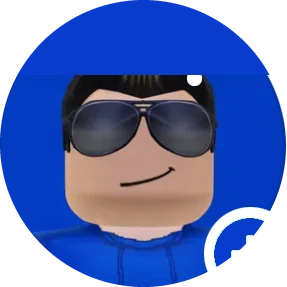
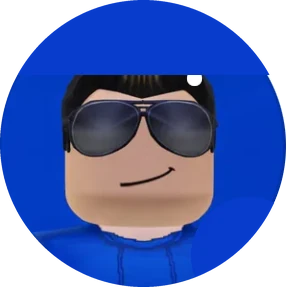
TikTok: someone else's profile, real-looking verified badge, upload and play videos
Claude-Session: https://claude.ai/code/session_019XkTPpmcsHWjk58MruyJfw

Changed region(s): [[0.669, 0.6969, 0.9756, 0.9477], [0.8362, 0.8084, 0.892, 0.8641], [0.7805, 0.8641, 0.8362, 0.892]]

diff --git a/tiktok/index.html b/tiktok/index.html
@@ -114,26 +114,84 @@ img{display:block;max-width:none}
 .add{margin-top:10px;width:100%}
 .hint{font-size:12px;color:#8a8a8f;margin:8px 0 0;line-height:1.35}
 input[type=file]{display:none}
+/* other person's profile */
+.app .ot{display:none}.app.o .me{display:none}.app.o .ot{display:block}
+.app.o .stats.ot,.app.o .btnsO.ot,.app.o .tabsO.ot,.app.o .lists.ot{display:flex}
+.app.o .nav{display:none}.app.o .scroll{padding-bottom:calc(40*var(--u) + env(safe-area-inset-bottom,0px))}
+.top.o{display:none}.app.o .top.o{display:flex}.app.o .top.m{display:none}
+.headO{position:relative;padding:calc(30*var(--u)) calc(34*var(--u)) 0;min-height:calc(210*var(--u))}
+.headO h1{margin:0;max-width:calc(620*var(--u));font-size:calc(70*var(--u));line-height:1.08;font-weight:800;letter-spacing:-.025em;word-break:break-word}
+.hrow{display:flex;align-items:center;gap:calc(10*var(--u));margin-top:calc(14*var(--u));font-size:calc(29*var(--u));color:var(--mute);font-weight:500;flex-wrap:wrap}
+.hrow .vb2{width:calc(34*var(--u));height:calc(34*var(--u));flex:none}
+.hrow .cat{margin-left:calc(14*var(--u));font-weight:600}
+.avO{position:absolute;right:calc(34*var(--u));top:calc(30*var(--u));width:calc(200*var(--u));height:calc(200*var(--u));border-radius:50%;background:#fff;border:calc(6*var(--u)) solid #e9f6fb;box-shadow:0 0 0 calc(2*var(--u)) #d9eef6;overflow:hidden}
+.avO img{width:100%;height:100%;object-fit:cover}
+.btnsO{display:flex;gap:calc(17*var(--u));padding:calc(32*var(--u)) calc(34*var(--u)) 0}
+.btnsO button{height:calc(82*var(--u));border-radius:calc(16*var(--u));font-size:calc(31*var(--u));font-weight:600;display:grid;place-items:center}
+.btnsO .fol{flex:1;background:#fe2c55;color:#fff}
+.btnsO .fol.on{background:#f1f1f2;color:#161616}
+.btnsO .msg{flex:1;background:#f1f1f2;color:#161616}
+.btnsO .addf{width:calc(83*var(--u));flex:none;border-radius:50%;background:#f1f1f2}
+.btnsO .addf img{height:calc(34*var(--u));mix-blend-mode:multiply}
+.supp{margin:calc(30*var(--u)) calc(34*var(--u)) 0;display:inline-flex;align-items:center;gap:calc(14*var(--u));height:calc(64*var(--u));padding:0 calc(26*var(--u)) 0 calc(16*var(--u));border:calc(2*var(--u)) solid var(--line);border-radius:calc(32*var(--u));font-size:calc(29*var(--u));font-weight:600;max-width:calc(100% - 68*var(--u))}
+.supp img{height:calc(28*var(--u));width:auto}
+.supp span{overflow:hidden;text-overflow:ellipsis;white-space:nowrap}
+.app.o .tabs{margin-top:calc(46*var(--u))}
+.tabsO{display:flex;position:relative;margin-top:calc(40*var(--u));height:calc(100*var(--u));border-bottom:0}
+.tabsO button{flex:1;display:grid;place-items:center;height:100%}
+.tabsO img{height:calc(46*var(--u));opacity:.55}.tabsO button.on img{opacity:1}
+.tabsO .ind{position:absolute;bottom:0;height:calc(5*var(--u));background:#161616;border-radius:calc(2*var(--u));transition:left .25s,width .25s}
+.lists{display:flex;overflow-x:auto;border-top:calc(2*var(--u)) solid var(--line);border-bottom:calc(2*var(--u)) solid var(--line);height:calc(90*var(--u));align-items:center;scrollbar-width:none}
+.lists::-webkit-scrollbar{display:none}
+.lists span{flex:none;display:flex;align-items:center;gap:calc(14*var(--u));padding:0 calc(34*var(--u)) 0 calc(34*var(--u));font-size:calc(29*var(--u));font-weight:600;white-space:nowrap;position:relative}
+.lists span+span:before{content:"";position:absolute;left:0;top:calc(22*var(--u));bottom:calc(22*var(--u));width:calc(2*var(--u));background:var(--line)}
+.lists img{height:calc(34*var(--u))}
+.cell{cursor:pointer}
+.cell .vtag{position:absolute;top:calc(12*var(--u));right:calc(12*var(--u));width:calc(40*var(--u));height:calc(40*var(--u));border-radius:50%;background:#00000066;display:grid;place-items:center}
+.cell .vtag svg{width:calc(20*var(--u));height:calc(20*var(--u))}
+/* video viewer */
+.vw{position:fixed;inset:0;z-index:90;background:#000;display:none}
+.vw.on{display:block}
+.vw video{position:absolute;inset:0;width:100%;height:100%;object-fit:contain;background:#000}
+.vw .x,.vw .mu{position:absolute;top:calc(14px + env(safe-area-inset-top,0px));width:40px;height:40px;border-radius:50%;background:#00000066;color:#fff;display:grid;place-items:center}
+.vw .x{left:14px}.vw .mu{right:14px}
+.vw .cap{position:absolute;left:16px;right:16px;bottom:calc(26px + env(safe-area-inset-bottom,0px));color:#fff;font-size:15px;line-height:1.35;text-shadow:0 1px 4px #0009}
+.vw .cap b{display:block;font-size:16px;margin-bottom:4px}
+.vw .pp{position:absolute;inset:0;display:grid;place-items:center;pointer-events:none;opacity:0;transition:opacity .2s}
+.vw .pp.on{opacity:1}
+.seg{display:flex;background:#ececef;border-radius:10px;padding:3px;gap:3px}
+.seg button{flex:1;height:34px;border-radius:8px;font-size:14px;font-weight:600;color:#6a6a70}
+.seg button.on{background:#fff;color:#161616;box-shadow:0 1px 3px #0002}
+.li .tg{display:inline-block;font-size:11.5px;font-weight:700;color:#0a8a3a;background:#e1f6e8;border-radius:6px;padding:2px 7px;margin-left:4px}
+.li .lb{font-size:11.5px;color:#8a8a8f;font-weight:600;margin-bottom:-4px}
+
 </style>
 </head>
 <body>
 <div class="app" id="app">
-  <header class="top">
+  <header class="top o"><button class="ib" id="backBtn" aria-label="Back"><img src="img/o_back.webp" alt=""></button><span class="sp"></span><div class="r"><img src="img/o_bell.webp" alt=""><button class="ib" id="shareBtn" aria-label="Share"><img src="img/o_share.webp" alt=""></button></div></header><header class="top m">
     <button class="ib" id="editBtn" aria-label="Edit profile"><img src="img/i_pencil.webp" alt=""></button>
     <span class="coin" id="coin"><img src="img/i_coin.webp" alt=""></span>
     <span class="sp"></span>
     <div class="r"><img src="img/i_cal.webp" alt=""><img src="img/i_adduser.webp" alt=""><button class="ib" id="menuBtn" aria-label="Menu"><img src="img/i_menu.webp" alt=""></button></div>
   </header>
   <main class="scroll" id="scroll">
-    <section class="head">
-      <div class="who"><h1 id="name"></h1><svg class="vb" id="vb" viewBox="0 0 24 24"><circle cx="12" cy="12" r="11" fill="#20d5ec"/><path d="M7 12.4l3.2 3L17 8.8" stroke="#fff" stroke-width="2.4" fill="none" stroke-linecap="round" stroke-linejoin="round"/></svg><i class="caret"></i><i class="dot" id="dot"></i><p id="handle"></p></div>
-      <div class="avwrap"><div class="bubble" id="note"></div><div class="av" id="av"><img id="avImg" alt=""><b class="plus">+</b></div></div>
+    <section class="headO ot"><div><h1 class="b-name"></h1><div class="hrow"><span class="b-handle"></span><svg class="vb2 b-vb" viewBox="0 0 24 24"><path d="M12 1.6l2.3 1.6 2.8-.2 1.2 2.6 2.5 1.2-.2 2.8L22 12l-1.6 2.3.2 2.8-2.6 1.2-1.2 2.5-2.8-.2L12 22l-2.3-1.6-2.8.2-1.2-2.6-2.5-1.2.2-2.8L2 12l1.6-2.3-.2-2.8 2.6-1.2 1.2-2.5 2.8.2z" fill="#20d5ec"/><path d="M7.6 12.3l3 3 5.8-6.2" stroke="#fff" stroke-width="2.3" fill="none" stroke-linecap="round" stroke-linejoin="round"/></svg><span class="cat" id="cat"></span></div></div><div class="avO"><img class="b-av" alt=""></div></section>
+    <section class="stats ot"><div><b class="b-fg"></b><span>Following</span></div><div><b class="b-fr"></b><span>Followers</span></div><div><b class="b-lk"></b><span>Likes</span></div></section>
+    <section class="btnsO ot"><button class="fol" id="folBtn" type="button">Follow</button><button class="msg" type="button">Message</button><button class="addf" type="button" aria-label="Suggested accounts"><img src="img/o_addf.webp" alt=""></button></section>
+    <section class="bio ot"><span class="b-bio"></span><a class="b-link"></a></section>
+    <section class="ot" id="suppW"><div class="supp"><img src="img/o_heart.webp" alt=""><span id="suppT"></span></div></section>
+    <section class="tabsO ot" id="tabsO"><button data-t="a"><img src="img/o_music.webp" alt=""></button><button class="on" data-t="g"><img src="img/i_t1.webp" alt=""></button><button data-t="e"><img src="img/i_t3.webp" alt=""></button><button data-t="r"><img src="img/i_t6.webp" alt=""></button><i class="ind" id="indO"></i></section>
+    <section class="lists ot" id="lists"></section>
+    <section class="head me">
+      <div class="who"><h1 id="name" class="b-name"></h1><svg class="vb" id="vb" viewBox="0 0 24 24"><path d="M12 1.6l2.3 1.6 2.8-.2 1.2 2.6 2.5 1.2-.2 2.8L22 12l-1.6 2.3.2 2.8-2.6 1.2-1.2 2.5-2.8-.2L12 22l-2.3-1.6-2.8.2-1.2-2.6-2.5-1.2.2-2.8L2 12l1.6-2.3-.2-2.8 2.6-1.2 1.2-2.5 2.8.2z" fill="#20d5ec"/><path d="M7.6 12.3l3 3 5.8-6.2" stroke="#fff" stroke-width="2.3" fill="none" stroke-linecap="round" stroke-linejoin="round"/></svg><i class="caret"></i><i class="dot" id="dot"></i><p id="handle" class="b-handle2"></p></div>
+      <div class="avwrap"><div class="bubble" id="note"></div><div class="av" id="av"><img id="avImg" class="b-av" alt=""><b class="plus">+</b></div></div>
     </section>
-    <section class="stats"><div><b id="sFg"></b><span>Following</span></div><div><b id="sFr"></b><span>Followers</span></div><div><b id="sLk"></b><span>Likes</span></div></section>
-    <section class="bio"><span id="bio"></span><a id="link"></a></section>
-    <section class="chips"><span class="chip"><img src="img/i_chip1.webp" alt="">TikTok Studio</span><span class="chip"><img src="img/i_chip2.webp" alt="">Your orders</span><span class="chip"><img src="img/i_chip3.webp" alt="">Balance</span><span class="chip"><img src="img/i_chip4.webp" alt="">Showcase</span></section>
-    <section class="hls" id="hls"></section>
-    <section class="tabs" id="tabs"><button class="on" data-t="0"><img src="img/i_t1.webp" alt=""></button><button data-t="1"><img src="img/i_t2.webp" alt=""></button><button data-t="2"><img src="img/i_t3.webp" alt=""></button><button data-t="3"><img src="img/i_t4.webp" alt=""></button><button data-t="4"><img src="img/i_t5.webp" alt=""></button><button data-t="5"><img src="img/i_t6.webp" alt=""></button><button data-t="6"><img src="img/i_t7.webp" alt=""></button><button data-t="7"><img src="img/i_t8.webp" alt=""></button><i class="ind" id="ind"></i></section>
+    <section class="stats me"><div><b id="sFg" class="b-fg"></b><span>Following</span></div><div><b id="sFr" class="b-fr"></b><span>Followers</span></div><div><b id="sLk" class="b-lk"></b><span>Likes</span></div></section>
+    <section class="bio me"><span id="bio" class="b-bio"></span><a id="link" class="b-link"></a></section>
+    <section class="chips me"><span class="chip"><img src="img/i_chip1.webp" alt="">TikTok Studio</span><span class="chip"><img src="img/i_chip2.webp" alt="">Your orders</span><span class="chip"><img src="img/i_chip3.webp" alt="">Balance</span><span class="chip"><img src="img/i_chip4.webp" alt="">Showcase</span></section>
+    <section class="hls me" id="hls"></section>
+    <section class="tabs me" id="tabs"><button class="on" data-t="0"><img src="img/i_t1.webp" alt=""></button><button data-t="1"><img src="img/i_t2.webp" alt=""></button><button data-t="2"><img src="img/i_t3.webp" alt=""></button><button data-t="3"><img src="img/i_t4.webp" alt=""></button><button data-t="4"><img src="img/i_t5.webp" alt=""></button><button data-t="5"><img src="img/i_t6.webp" alt=""></button><button data-t="6"><img src="img/i_t7.webp" alt=""></button><button data-t="7"><img src="img/i_t8.webp" alt=""></button><i class="ind" id="ind"></i></section>
     <section id="grid" class="grid"></section>
     <p class="empty" id="empty" hidden>Nothing here yet.</p>
   </main>
@@ -142,6 +200,11 @@ input[type=file]{display:none}
 
 <aside class="ed" id="ed" aria-hidden="true"><div class="ed-in">
   <div class="ed-bar"><button class="rst" id="reset" type="button">Reset</button><h2>Edit profile</h2><button class="done" id="done" type="button">Done</button></div>
+  <div class="card"><h3>Profile type</h3><div class="seg" id="eMode"><button type="button" data-m="me">My profile</button><button type="button" data-m="o">Someone else’s</button></div>
+    <div id="eOther"><div class="fld" style="margin-top:12px"><label for="eCat">Label next to the username (empty to hide)</label><input type="text" id="eCat" maxlength="24" autocomplete="off"></div>
+    <div class="fld"><label for="eSupp">“Supporting” chip (empty to hide)</label><input type="text" id="eSupp" maxlength="60" autocomplete="off"></div>
+    <label class="tog">Following this account<input type="checkbox" id="eFol"></label>
+    <div class="fld" style="margin-top:6px"><label>Playlists</label><div class="list" id="eLists"></div><button class="btn g add" id="addList" type="button">Add playlist</button></div></div></div>
   <div class="card"><h3>Profile</h3>
     <div class="fld"><label>Photo</label><div class="pic"><img class="pv" id="pvAv" alt=""><div class="ac"><label class="btn" for="fAv">Change photo</label><button class="btn g" id="rmAv" type="button">Default</button></div><input type="file" id="fAv" accept="image/*"></div></div>
     <div class="fld"><label for="eName">Name</label><input type="text" id="eName" maxlength="40" autocomplete="off"></div>
@@ -169,16 +232,17 @@ input[type=file]{display:none}
     <p class="hint">Tap a picture to replace it. Views show with the play icon; a label covers the video like “Community Guidelines violation”.</p>
   </div>
 </div></aside>
-<input type="file" id="fAny" accept="image/*">
+<input type="file" id="fAny" accept="image/*"><input type="file" id="fVid" accept="video/*">
+<div class="vw" id="vw"><video id="vp" playsinline loop></video><button class="x" id="vx" aria-label="Close"><svg viewBox="0 0 14 14" width="16" height="16"><path d="M1.5 1.5l11 11M12.5 1.5l-11 11" stroke="#fff" stroke-width="1.8" stroke-linecap="round"/></svg></button><button class="mu" id="vm" aria-label="Sound"></button><div class="pp" id="vpp"><svg viewBox="0 0 24 24" width="72" height="72"><path d="M7 4.5v15l13-7.5z" fill="#ffffffcc"/></svg></div><div class="cap" id="vcap"></div></div>
 
 <script>
 (function(){
 var KEY='tt.profile.v1';
-var DEF={name:'pocoyo roblox',handle:'pocoyorobloxiano',ver:false,dot:true,coin:true,avBg:'#1d44c8',avatar:null,note:"What's good?",
+var DEF={mode:'me',cat:'',supp:'',followed:false,lists:[{name:'Playlist 1'},{name:'Playlist 2'}],name:'pocoyo roblox',handle:'pocoyorobloxiano',ver:false,dot:true,coin:true,avBg:'#1d44c8',avatar:null,note:"What's good?",
  following:'73',followers:'347300',likes:'672900',bio:'Ponte serio crack',link:'https://moneyscripts.shop/',inbox:'99+',
  hls:[{name:'Important',img:'hl'}],
  drafts:{on:true,n:'7',size:'208.7MB',img:'v1'},
- vids:[{img:'v2',views:'36.9K',label:''},{img:'v3',views:'',label:'Community Guidelines violation'},{img:'v4',views:'991K',label:''},{img:'v5',views:'133.5K',label:''},{img:'v6',views:'314.7K',label:''}]};
+ vids:[{img:'v2',views:'36.9K',label:'',vid:null},{img:'v3',views:'',label:'Community Guidelines violation',vid:null},{img:'v4',views:'991K',label:'',vid:null},{img:'v5',views:'133.5K',label:'',vid:null},{img:'v6',views:'314.7K',label:'',vid:null}]};
 var S;
 function clone(o){return JSON.parse(JSON.stringify(o))}
 function load(){try{var r=JSON.parse(localStorage.getItem(KEY)||'null');S=r?Object.assign(clone(DEF),r):clone(DEF)}catch(e){S=clone(DEF)}}
@@ -191,27 +255,42 @@ function fmt(v){v=String(v==null?'':v).trim();if(!/^\d+(\.\d+)?$/.test(v))return
 function esc(t){return String(t).replace(/[&<>"]/g,function(c){return{'&':'&amp;','<':'&lt;','>':'&gt;','"':'&quot;'}[c]})}
 var PLAY='<svg viewBox="0 0 24 24"><path d="M6 3.8v16.4a1 1 0 0 0 1.5.9l13-8.2a1 1 0 0 0 0-1.7l-13-8.2A1 1 0 0 0 6 3.8z" fill="none" stroke="#fff" stroke-width="2.2" stroke-linejoin="round"/></svg>';
 var STACK='<svg viewBox="0 0 24 24"><rect x="3" y="9" width="18" height="12" rx="2.4" fill="none" stroke="#fff" stroke-width="2"/><path d="M6.5 5h11" stroke="#fff" stroke-width="2" stroke-linecap="round"/></svg>';
+function qa(sel,fn){var n=document.querySelectorAll(sel);for(var i=0;i<n.length;i++)fn(n[i])}
 function render(){
- $('name').textContent=S.name;$('vb').style.display=S.ver?'inline-block':'none';$('dot').style.display=S.dot?'':'none';$('coin').style.display=S.coin?'':'none';
- $('handle').textContent='@'+String(S.handle).replace(/^@/,'');
- $('sFg').textContent=fmt(S.following);$('sFr').textContent=fmt(S.followers);$('sLk').textContent=fmt(S.likes);
- $('bio').textContent=S.bio;var l=$('link');l.textContent=S.link;l.href=/^https?:/i.test(S.link)?S.link:'#';l.style.display=S.link?'':'none';
- $('bio').parentNode.style.display=(S.bio||S.link)?'':'none';
+ $('app').classList.toggle('o',S.mode==='o');
+ qa('.b-name',function(e){e.textContent=S.name});
+ qa('.b-handle,.b-handle2',function(e){e.textContent='@'+String(S.handle).replace(/^@/,'')});
+ qa('.b-fg',function(e){e.textContent=fmt(S.following)});qa('.b-fr',function(e){e.textContent=fmt(S.followers)});qa('.b-lk',function(e){e.textContent=fmt(S.likes)});
+ qa('.b-bio',function(e){e.textContent=S.bio});
+ qa('.b-link',function(e){e.textContent=S.link;e.href=/^https?:/i.test(S.link)?S.link:'#';e.style.display=S.link?'':'none'});
+ qa('.bio',function(e){e.style.display=(S.bio||S.link)?'':'none'});
+ qa('.b-av',function(e){e.src=src(S.avatar,'avatar')});
+ qa('.b-vb',function(e){e.style.display=S.ver?'inline-block':'none'});
+ $('vb').style.display=S.ver?'inline-block':'none';$('dot').style.display=S.dot?'':'none';$('coin').style.display=S.coin?'':'none';
  var nt=$('note');nt.textContent=S.note;nt.style.display=S.note?'':'none';
- $('av').style.background=S.avBg;$('avImg').src=src(S.avatar,'avatar');
+ $('av').style.background=S.avBg;
  var ib=$('inbox');ib.textContent=S.inbox;ib.style.display=S.inbox?'':'none';
+ $('cat').textContent=S.cat;$('cat').style.display=S.cat?'':'none';
+ $('suppT').textContent=S.supp;$('suppW').style.display=S.supp?'':'none';
+ var fb=$('folBtn');fb.textContent=S.followed?'Following':'Follow';fb.classList.toggle('on',!!S.followed);
+ var lh='';S.lists.forEach(function(x){lh+='<span><img src="img/o_plist.webp" alt="">'+esc(x.name)+'</span>'});$('lists').innerHTML=lh;$('lists').style.display=S.lists.length?'':'none';
  var h='<div class="hl"><div class="c"><b>+</b></div><span>New</span></div>';
  S.hls.forEach(function(x){h+='<div class="hl"><div class="c pic"><img src="'+esc(src(x.img,'hl'))+'" alt=""></div><span>'+esc(x.name)+'</span></div>'});
  $('hls').innerHTML=h;
  var g='';
- if(S.drafts.on)g+='<div class="cell"><img src="'+esc(src(S.drafts.img,'v1'))+'" alt=""><span class="dr">Drafts: '+esc(S.drafts.n)+'</span><div class="ov">'+STACK+esc(S.drafts.size)+'</div></div>';
- S.vids.forEach(function(v){g+='<div class="cell"><img src="'+esc(src(v.img,'v2'))+'" alt="">'+(v.label?'<div class="lab">'+esc(v.label)+'</div>':(v.views?'<div class="ov">'+PLAY+esc(v.views)+'</div>':''))+'</div>'});
+ if(S.mode==='me'&&S.drafts.on)g+='<div class="cell"><img src="'+esc(src(S.drafts.img,'v1'))+'" alt=""><span class="dr">Drafts: '+esc(S.drafts.n)+'</span><div class="ov">'+STACK+esc(S.drafts.size)+'</div></div>';
+ S.vids.forEach(function(v,i){g+='<div class="cell" data-i="'+i+'"><img src="'+esc(src(v.img,'v2'))+'" alt="">'+(v.label?'<div class="lab">'+esc(v.label)+'</div>':(v.views?'<div class="ov">'+PLAY+esc(v.views)+'</div>':''))+(v.vid?'<span class="vtag"><svg viewBox="0 0 24 24"><path d="M7 4.5v15l13-7.5z" fill="#fff"/></svg></span>':'')+'</div>'});
  $('grid').innerHTML=g;
+ requestAnimationFrame(moveAll);
 }
 /* tabs */
 var tabs=document.querySelectorAll('#tabs button'),ind=$('ind');
-function moveInd(b){ind.style.left=b.offsetLeft+'px';ind.style.width=b.offsetWidth+'px'}
+function moveInd(b){if(!b||!b.offsetWidth)return;ind.style.left=b.offsetLeft+'px';ind.style.width=b.offsetWidth+'px'}
 tabs.forEach(function(b){b.addEventListener('click',function(){tabs.forEach(function(x){x.classList.toggle('on',x===b)});moveInd(b);var first=b.dataset.t==='0';$('grid').hidden=!first;$('empty').hidden=first})});
+var tabsO=document.querySelectorAll('#tabsO button'),indO=$('indO');
+function moveIndO(b){if(!b||!b.offsetWidth)return;indO.style.left=(b.offsetLeft+b.offsetWidth*0.28)+'px';indO.style.width=(b.offsetWidth*0.44)+'px'}
+tabsO.forEach(function(b){b.addEventListener('click',function(){tabsO.forEach(function(x){x.classList.toggle('on',x===b)});moveIndO(b);var first=b.dataset.t==='g';$('grid').hidden=!first;$('lists').style.visibility=first?'':'hidden';$('empty').hidden=first})});
+function moveAll(){moveInd(document.querySelector('#tabs button.on'));moveIndO(document.querySelector('#tabsO button.on'))}
 /* editor */
 var fAny=$('fAny'),pick=null;
 function readImg(file,max,cb){var r=new FileReader();r.onload=function(){var im=new Image();im.onload=function(){var k=Math.min(1,max/Math.max(im.width,im.height)),c=document.createElement('canvas');c.width=Math.round(im.width*k);c.height=Math.round(im.height*k);c.getContext('2d').drawImage(im,0,0,c.width,c.height);cb(c.toDataURL('image/jpeg',.8))};im.src=r.result};r.readAsDataURL(file)}
@@ -229,26 +308,65 @@ function fill(){
  $('eName').value=S.name;$('eHandle').value=S.handle;$('eBio').value=S.bio;$('eLink').value=S.link;$('eNote').value=S.note;
  $('eFg').value=S.following;$('eFr').value=S.followers;$('eLk').value=S.likes;$('eInbox').value=S.inbox;$('eBg').value=S.avBg;
  $('eVer').checked=S.ver;$('eDot').checked=S.dot;$('eCoin').checked=S.coin;$('eDrOn').checked=S.drafts.on;$('eDrN').value=S.drafts.n;$('eDrS').value=S.drafts.size;
+ $('eCat').value=S.cat;$('eSupp').value=S.supp;$('eFol').checked=!!S.followed;
+ qa('#eMode button',function(b){b.classList.toggle('on',b.dataset.m===S.mode)});$('eOther').style.display=S.mode==='o'?'':'none';
  $('pvAv').src=src(S.avatar,'avatar');$('pvAv').style.background=S.avBg;
+ var l='';S.lists.forEach(function(x,i){l+='<div class="li" style="grid-template-columns:1fr auto"><div class="f"><input type="text" value="'+esc(x.name)+'" data-ln="'+i+'" maxlength="30" placeholder="Playlist name"></div><button class="btn r" data-ld="'+i+'" type="button">Delete</button></div>'});
+ $('eLists').innerHTML=l||'<p class="hint">No playlists.</p>';
  var h='';S.hls.forEach(function(x,i){h+='<div class="li"><img class="pv c" src="'+esc(src(x.img,'hl'))+'" data-hp="'+i+'" alt=""><div class="f"><input type="text" value="'+esc(x.name)+'" data-hn="'+i+'" maxlength="20" placeholder="Name"><div class="ac"><button class="btn g" data-hp="'+i+'" type="button">Photo</button><button class="btn r" data-hd="'+i+'" type="button">Delete</button></div></div></div>'});
  $('eHls').innerHTML=h||'<p class="hint">No highlights.</p>';
- var v='';S.vids.forEach(function(x,i){v+='<div class="li"><img class="pv" src="'+esc(src(x.img,'v2'))+'" data-vp="'+i+'" alt=""><div class="f"><input type="text" value="'+esc(x.views)+'" data-vv="'+i+'" placeholder="Views (36.9K)"><input type="text" value="'+esc(x.label)+'" data-vl="'+i+'" placeholder="Label over the video"><div class="ac"><button class="btn g" data-vp="'+i+'" type="button">Picture</button><button class="btn g" data-vu="'+i+'" type="button">Up</button><button class="btn r" data-vd="'+i+'" type="button">Delete</button></div></div></div>'});
+ var v='';S.vids.forEach(function(x,i){v+='<div class="li"><img class="pv" src="'+esc(src(x.img,'v2'))+'" data-vp="'+i+'" alt=""><div class="f"><div class="lb">Views'+(x.vid?'<span class="tg">video added</span>':'')+'</div><input type="text" value="'+esc(x.views)+'" data-vv="'+i+'" placeholder="Views, for example 36.9K or 1200000"><input type="text" value="'+esc(x.label)+'" data-vl="'+i+'" placeholder="Label over the video"><div class="ac"><button class="btn" data-vv2="'+i+'" type="button">'+(x.vid?'Change video':'Upload video')+'</button>'+(x.vid?'<button class="btn g" data-vx="'+i+'" type="button">Remove video</button>':'')+'<button class="btn g" data-vp="'+i+'" type="button">Cover</button><button class="btn g" data-vu="'+i+'" type="button">Up</button><button class="btn r" data-vd="'+i+'" type="button">Delete</button></div></div></div>'});
  $('eVids').innerHTML=v||'<p class="hint">No videos.</p>';
 }
 function sync(){render();fill();save()}
+bind('eCat','cat');bind('eSupp','supp');
+$('eFol').addEventListener('input',function(){S.followed=this.checked;render();save()});
+$('folBtn').addEventListener('click',function(){S.followed=!S.followed;render();save();$('eFol').checked=S.followed});
+$('eMode').addEventListener('click',function(e){var b=e.target.closest('button');if(!b)return;S.mode=b.dataset.m;render();fill();save()});
+$('eLists').addEventListener('input',function(e){var t=e.target;if(t.dataset.ln!=null){S.lists[+t.dataset.ln].name=t.value;render();save()}});
+$('eLists').addEventListener('click',function(e){var t=e.target.closest('[data-ld]');if(!t)return;S.lists.splice(+t.dataset.ld,1);sync()});
+$('addList').addEventListener('click',function(){S.lists.push({name:'Playlist '+(S.lists.length+1)});sync()});
 $('eHls').addEventListener('input',function(e){var t=e.target;if(t.dataset.hn!=null){S.hls[+t.dataset.hn].name=t.value;render();save()}});
 $('eHls').addEventListener('click',function(e){var t=e.target.closest('[data-hp],[data-hd]');if(!t)return;if(t.dataset.hd!=null){S.hls.splice(+t.dataset.hd,1);sync()}else{var i=+t.dataset.hp;pickImage(300,function(d){S.hls[i].img=d;sync()})}});
 $('addHl').addEventListener('click',function(){S.hls.push({name:'New',img:'hl'});sync()});
+/* videos live in IndexedDB (too big for localStorage) */
+var DB=null;
+function idb(){return DB||(DB=new Promise(function(res,rej){var r=indexedDB.open('tt-videos',1);r.onupgradeneeded=function(){r.result.createObjectStore('v')};r.onsuccess=function(){res(r.result)};r.onerror=function(){rej(r.error)}}))}
+function idbDo(mode,fn){return idb().then(function(db){return new Promise(function(res,rej){var t=db.transaction('v',mode),st=t.objectStore('v'),q=fn(st);t.oncomplete=function(){res(q&&q.result)};t.onerror=function(){rej(t.error)}})})}
+function vPut(id,b){return idbDo('readwrite',function(st){return st.put(b,id)})}
+function vGet(id){return idbDo('readonly',function(st){return st.get(id)})}
+function vDel(id){return idbDo('readwrite',function(st){return st.delete(id)}).catch(function(){})}
+function vClear(){return idbDo('readwrite',function(st){return st.clear()}).catch(function(){})}
+function thumbOf(file,cb){var u=URL.createObjectURL(file),v=document.createElement('video');v.muted=true;v.playsInline=true;v.preload='auto';v.src=u;var done=false;
+ function grab(){if(done)return;done=true;try{var k=Math.min(1,480/Math.max(v.videoWidth,v.videoHeight)),c=document.createElement('canvas');c.width=Math.round(v.videoWidth*k)||320;c.height=Math.round(v.videoHeight*k)||427;c.getContext('2d').drawImage(v,0,0,c.width,c.height);cb(c.toDataURL('image/jpeg',.78))}catch(e){cb(null)}URL.revokeObjectURL(u)}
+ v.addEventListener('loadeddata',function(){try{v.currentTime=Math.min(.6,(v.duration||1)/3)}catch(e){grab()}});v.addEventListener('seeked',grab);v.addEventListener('error',function(){if(!done){done=true;cb(null)}});setTimeout(function(){if(!done&&v.readyState>=2)grab()},4000)}
+var fVid=$('fVid'),vidIdx=-1;
+fVid.addEventListener('change',function(){var f=fVid.files&&fVid.files[0];fVid.value='';if(!f||vidIdx<0)return;var i=vidIdx,it=S.vids[i];if(!it)return;
+ var id='v'+Date.now().toString(36)+Math.random().toString(36).slice(2,6);
+ thumbOf(f,function(th){vPut(id,f).then(function(){if(it.vid)vDel(it.vid);it.vid=id;if(th)it.img=th;sync()}).catch(function(){alert('The video could not be saved in this browser.')})})});
 $('eVids').addEventListener('input',function(e){var t=e.target;if(t.dataset.vv!=null){S.vids[+t.dataset.vv].views=t.value}else if(t.dataset.vl!=null){S.vids[+t.dataset.vl].label=t.value}else return;render();save()});
-$('eVids').addEventListener('click',function(e){var t=e.target.closest('[data-vp],[data-vd],[data-vu]');if(!t)return;if(t.dataset.vd!=null){S.vids.splice(+t.dataset.vd,1);sync()}else if(t.dataset.vu!=null){var i=+t.dataset.vu;if(i>0){var x=S.vids.splice(i,1)[0];S.vids.splice(i-1,0,x);sync()}}else{var j=+t.dataset.vp;pickImage(420,function(d){S.vids[j].img=d;sync()})}});
-$('addVid').addEventListener('click',function(){S.vids.unshift({img:'v2',views:'0',label:''});sync()});
+$('eVids').addEventListener('click',function(e){var t=e.target.closest('[data-vp],[data-vd],[data-vu],[data-vv2],[data-vx]');if(!t)return;
+ if(t.dataset.vd!=null){var d=S.vids.splice(+t.dataset.vd,1)[0];if(d&&d.vid)vDel(d.vid);sync()}
+ else if(t.dataset.vu!=null){var i=+t.dataset.vu;if(i>0){var x=S.vids.splice(i,1)[0];S.vids.splice(i-1,0,x);sync()}}
+ else if(t.dataset.vv2!=null){vidIdx=+t.dataset.vv2;fVid.click()}
+ else if(t.dataset.vx!=null){var it=S.vids[+t.dataset.vx];if(it.vid){vDel(it.vid);it.vid=null}sync()}
+ else{var j=+t.dataset.vp;pickImage(420,function(dd){S.vids[j].img=dd;sync()})}});
+$('addVid').addEventListener('click',function(){S.vids.unshift({img:'v2',views:'0',label:'',vid:null});sync()});
+/* viewer */
+var vw=$('vw'),vp=$('vp'),vurl=null,muted=false;
+function setMu(){vp.muted=muted;$('vm').innerHTML=muted?'<svg viewBox="0 0 24 24" width="20" height="20"><path d="M4 9v6h4l5 4V5L8 9H4z" fill="#fff"/><path d="M16 9l5 6M21 9l-5 6" stroke="#fff" stroke-width="2" stroke-linecap="round"/></svg>':'<svg viewBox="0 0 24 24" width="20" height="20"><path d="M4 9v6h4l5 4V5L8 9H4z" fill="#fff"/><path d="M16 8.5a5 5 0 0 1 0 7M18.5 6a8.5 8.5 0 0 1 0 12" stroke="#fff" stroke-width="2" fill="none" stroke-linecap="round"/></svg>'}
+function openVid(i){var v=S.vids[i];if(!v||!v.vid)return;vGet(v.vid).then(function(b){if(!b)return;vurl=URL.createObjectURL(b);vp.src=vurl;$('vcap').innerHTML='<b>@'+esc(String(S.handle).replace(/^@/,''))+'</b>'+esc(v.label||'')+(v.views?'<br>'+esc(v.views)+' views':'');setMu();vw.classList.add('on');vp.currentTime=0;var pr=vp.play();if(pr&&pr.catch)pr.catch(function(){muted=true;setMu();vp.play().catch(function(){})})})}
+function closeVid(){vp.pause();vw.classList.remove('on');vp.removeAttribute('src');vp.load();if(vurl){URL.revokeObjectURL(vurl);vurl=null}}
+$('vx').addEventListener('click',closeVid);$('vm').addEventListener('click',function(){muted=!muted;setMu()});
+vp.addEventListener('click',function(){var pp=$('vpp');if(vp.paused){vp.play();pp.classList.remove('on')}else{vp.pause();pp.classList.add('on')}});
+$('grid').addEventListener('click',function(e){var c=e.target.closest('.cell[data-i]');if(c)openVid(+c.dataset.i)});
 var ed=$('ed');
 function openEd(){fill();ed.classList.add('on');ed.setAttribute('aria-hidden','false')}
 function closeEd(){ed.classList.remove('on');ed.setAttribute('aria-hidden','true');save()}
 $('editBtn').addEventListener('click',openEd);$('menuBtn').addEventListener('click',openEd);$('av').addEventListener('click',openEd);
 $('done').addEventListener('click',closeEd);
-$('reset').addEventListener('click',function(){if($('reset').dataset.c!=='1'){$('reset').dataset.c='1';$('reset').textContent='Tap again';setTimeout(function(){$('reset').dataset.c='';$('reset').textContent='Reset'},2500);return}$('reset').dataset.c='';$('reset').textContent='Reset';S=clone(DEF);try{localStorage.removeItem(KEY)}catch(e){}sync()});
-load();render();requestAnimationFrame(function(){moveInd(tabs[0])});window.addEventListener('resize',function(){moveInd(document.querySelector('#tabs button.on'))});
+$('reset').addEventListener('click',function(){if($('reset').dataset.c!=='1'){$('reset').dataset.c='1';$('reset').textContent='Tap again';setTimeout(function(){$('reset').dataset.c='';$('reset').textContent='Reset'},2500);return}$('reset').dataset.c='';$('reset').textContent='Reset';S=clone(DEF);try{localStorage.removeItem(KEY)}catch(e){}vClear();sync()});
+load();render();window.addEventListener('resize',moveAll);
 })();
 </script>
 </body>
